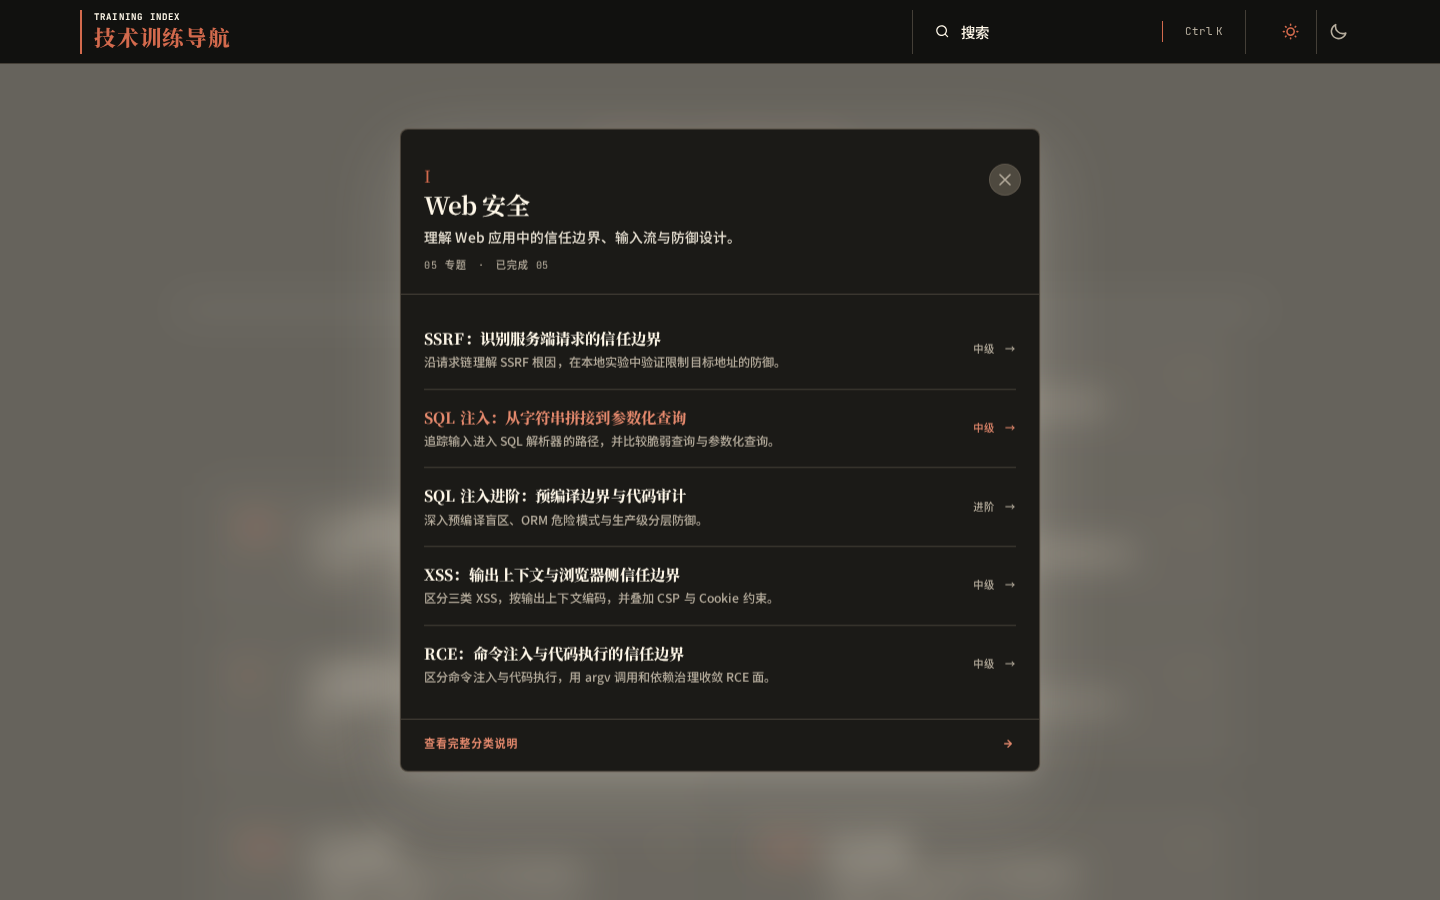
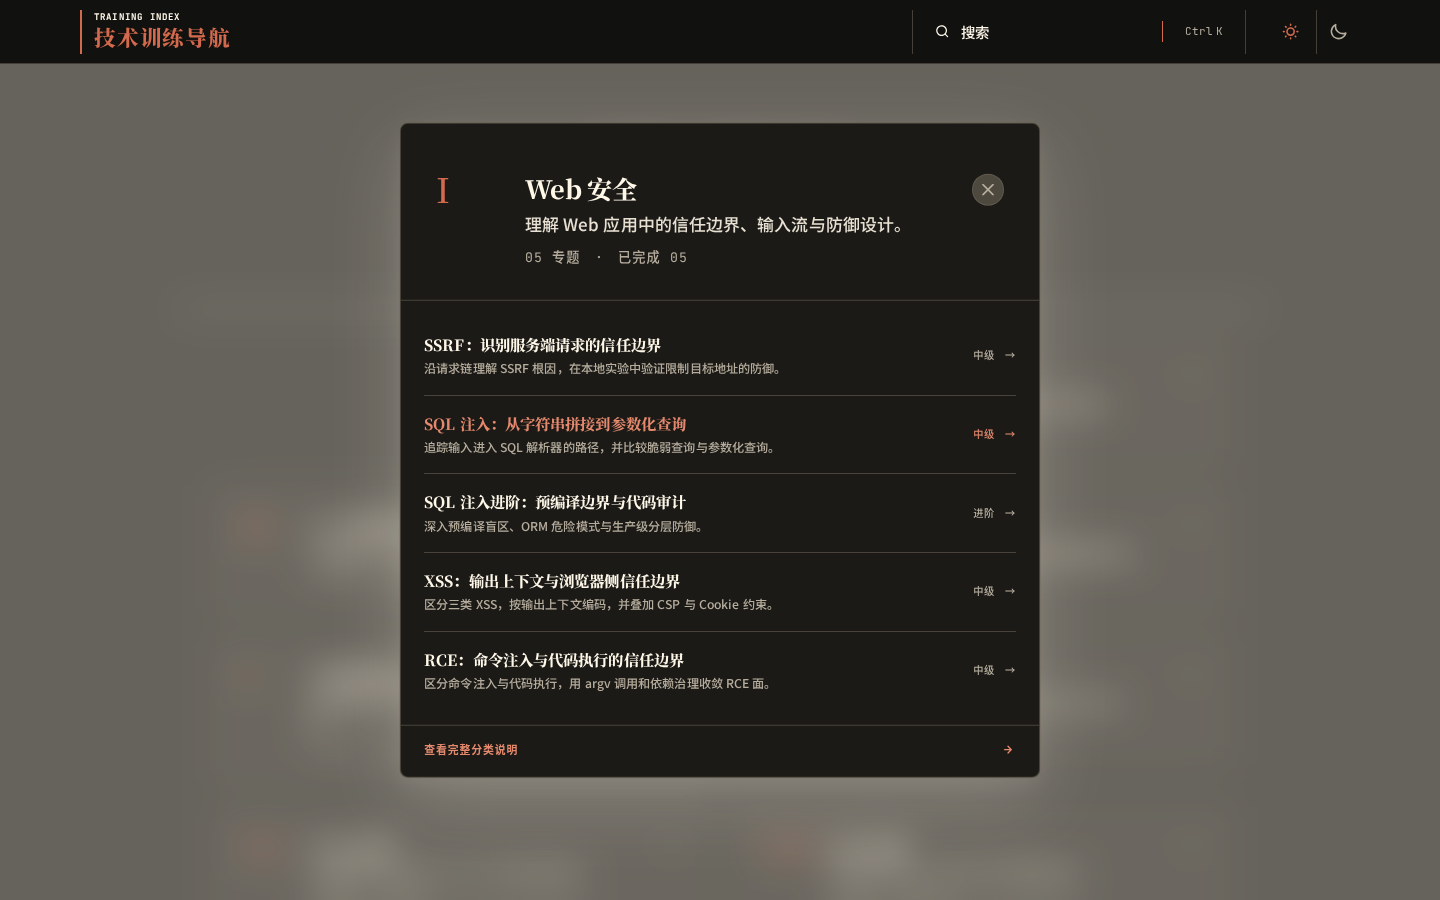
Give the panel header the card's layout so the morph lands seamlessly
The morph cross-faded two snapshots whose headers were laid out
differently — the roman numeral sat above the title in the panel and
beside it on the card — so for the length of the fade the same words
appeared twice in different places.

The panel header now uses the card's structure: numeral in a left column,
title, summary and count stacked beside it. A view transition scales both
snapshots to the current box width, so the card's is magnified by
640/496.4 relative to the panel's; every header metric is therefore the
card's value times that ratio, expressed as calc() against --morph-scale
so the derivation stays visible and retunable. Both page and panel widths
are capped, so the ratio is exact above 1088px and degrades to a slightly
zoomed dissolve below.

The sub-48rem sheet does not morph, so it resets --morph-scale to 1 rather
than carrying an enlarged header into a 390px drawer.

Verified in Chromium 149: at the midpoint of the fade the two headers sit
on top of each other; keyboard, focus restore, repeated and interrupted
transitions, reduced-motion and the drawer are unchanged, console clean.

diff --git a/src/styles/home.css b/src/styles/home.css
@@ -387,11 +387,50 @@ html.category-morphing::view-transition-new(root) {
   width: 2.25rem;
 }
 
+/*
+  头部沿用分类卡片的版式：罗马数字居左、标题与摘要成列，两张快照的排版一致，
+  交叉淡化才不会读成两套文字。
+
+  变形时浏览器把两张快照都缩放到当前框宽，所以卡片那张的放大倍数是面板那张的
+  640/496.4 倍。头部各项按同一个倍数放大，缩到卡片宽度时两边才落在一处。
+  下面每个数值都是分类卡片对应项乘以这个倍数，改卡片时要一起改。
+  页面宽度封顶 68rem、面板封顶 40rem，所以 1088px 以上这个比例是恒定的；
+  再窄一些会有偏差，效果退化成略有缩放的溶解，仍然可用。
+*/
 .category-panel-header {
+  --morph-scale: 1.2893;
+  align-items: start;
   border-block-end: var(--training-rule-light);
+  display: grid;
   flex-shrink: 0;
-  padding: 1.35rem 1.45rem 1.15rem;
+  gap: calc(1.05rem * var(--morph-scale));
+  grid-template-columns: calc(3.25rem * var(--morph-scale)) minmax(0, 1fr) 2rem;
+  min-height: calc(7.2rem * var(--morph-scale));
+  padding:
+    calc(1.55rem * var(--morph-scale))
+    calc(1.7rem * var(--morph-scale))
+    calc(1.45rem * var(--morph-scale));
   position: relative;
+}
+
+.category-panel-number {
+  color: var(--training-accent);
+  font-family: var(--training-font-title);
+  font-size: calc(1.65rem * var(--morph-scale));
+  font-weight: 500;
+  grid-column: 1;
+  grid-row: 1;
+  line-height: 1;
+  overflow-wrap: normal;
+  white-space: nowrap;
+  word-break: keep-all;
+}
+
+.category-panel-heading {
+  display: grid;
+  gap: calc(0.2rem * var(--morph-scale));
+  grid-column: 2;
+  grid-row: 1;
 }
 
 /*
@@ -427,11 +466,12 @@ html.category-morphing::view-transition-new(root) {
   color: var(--training-muted);
   cursor: pointer;
   display: inline-flex;
+  grid-column: 3;
+  grid-row: 1;
   height: 2rem;
   justify-content: center;
-  position: absolute;
-  inset-inline-end: 1.1rem;
-  inset-block-start: 1.15rem;
+  justify-self: end;
+  margin-block-start: 0.1rem;
   transition:
     background var(--training-duration-fast) ease,
     color var(--training-duration-fast) ease,
@@ -454,13 +494,8 @@ html.category-morphing::view-transition-new(root) {
   outline: none;
 }
 
-.category-panel-kicker {
-  color: var(--training-accent);
-  font-family: var(--training-font-title);
-  font-size: 1.05rem;
-  font-weight: 500;
-  line-height: 1;
-  margin: 0 0 0.35rem;
+/* 外观见上方 .category-panel-number，这里只管回落路径的进场 */
+.category-panel-number {
   opacity: 0;
   transform: translateY(8px);
   transition:
@@ -468,7 +503,7 @@ html.category-morphing::view-transition-new(root) {
     transform 0.45s cubic-bezier(0.32, 0.72, 0, 1) 0.05s;
 }
 
-.category-panel.is-lit .category-panel-kicker {
+.category-panel.is-lit .category-panel-number {
   opacity: 1;
   transform: translateY(0);
 }
@@ -476,12 +511,11 @@ html.category-morphing::view-transition-new(root) {
 .category-panel-title {
   color: var(--training-heading);
   font-family: var(--training-font-title);
-  font-size: 1.5rem;
-  font-weight: 700;
-  letter-spacing: -0.02em;
-  line-height: 1.25;
+  font-size: calc(1.22rem * var(--morph-scale));
+  font-weight: 800;
+  letter-spacing: -0.015em;
+  line-height: 1.35;
   margin: 0;
-  max-width: calc(100% - 2.75rem);
   opacity: 0;
   transform: translateY(10px);
   transition:
@@ -496,10 +530,10 @@ html.category-morphing::view-transition-new(root) {
 
 .category-panel-summary {
   color: var(--training-text);
-  font-size: 0.86rem;
+  font-size: calc(0.82rem * var(--morph-scale));
   line-height: 1.65;
-  margin: 0.4rem 0 0;
-  max-width: 32rem;
+  margin: 0;
+  max-width: 34rem;
   opacity: 0;
   transform: translateY(10px);
   transition:
@@ -515,9 +549,9 @@ html.category-morphing::view-transition-new(root) {
 .category-panel-count {
   color: var(--training-muted);
   font-family: var(--training-font-code);
-  font-size: 0.64rem;
+  font-size: calc(0.64rem * var(--morph-scale));
   letter-spacing: 0.08em;
-  margin-block-start: 0.45rem;
+  margin-block-start: calc(0.15rem * var(--morph-scale));
   opacity: 0;
   transform: translateY(8px);
   transition:

diff --git a/src/styles/responsive.css b/src/styles/responsive.css
@@ -117,6 +117,11 @@
     display: block;
   }
 
+  /* 抽屉不走卡片变形，头部不必按比例放大，回到与卡片相同的字号 */
+  .category-panel-header {
+    --morph-scale: 1;
+  }
+
   .category-number {
     font-size: 1.4rem;
   }
@@ -368,7 +373,7 @@
   }
   .category-panel,
   .category-panel-overlay,
-  .category-panel-kicker,
+  .category-panel-number,
   .category-panel-title,
   .category-panel-summary,
   .category-panel-count,
